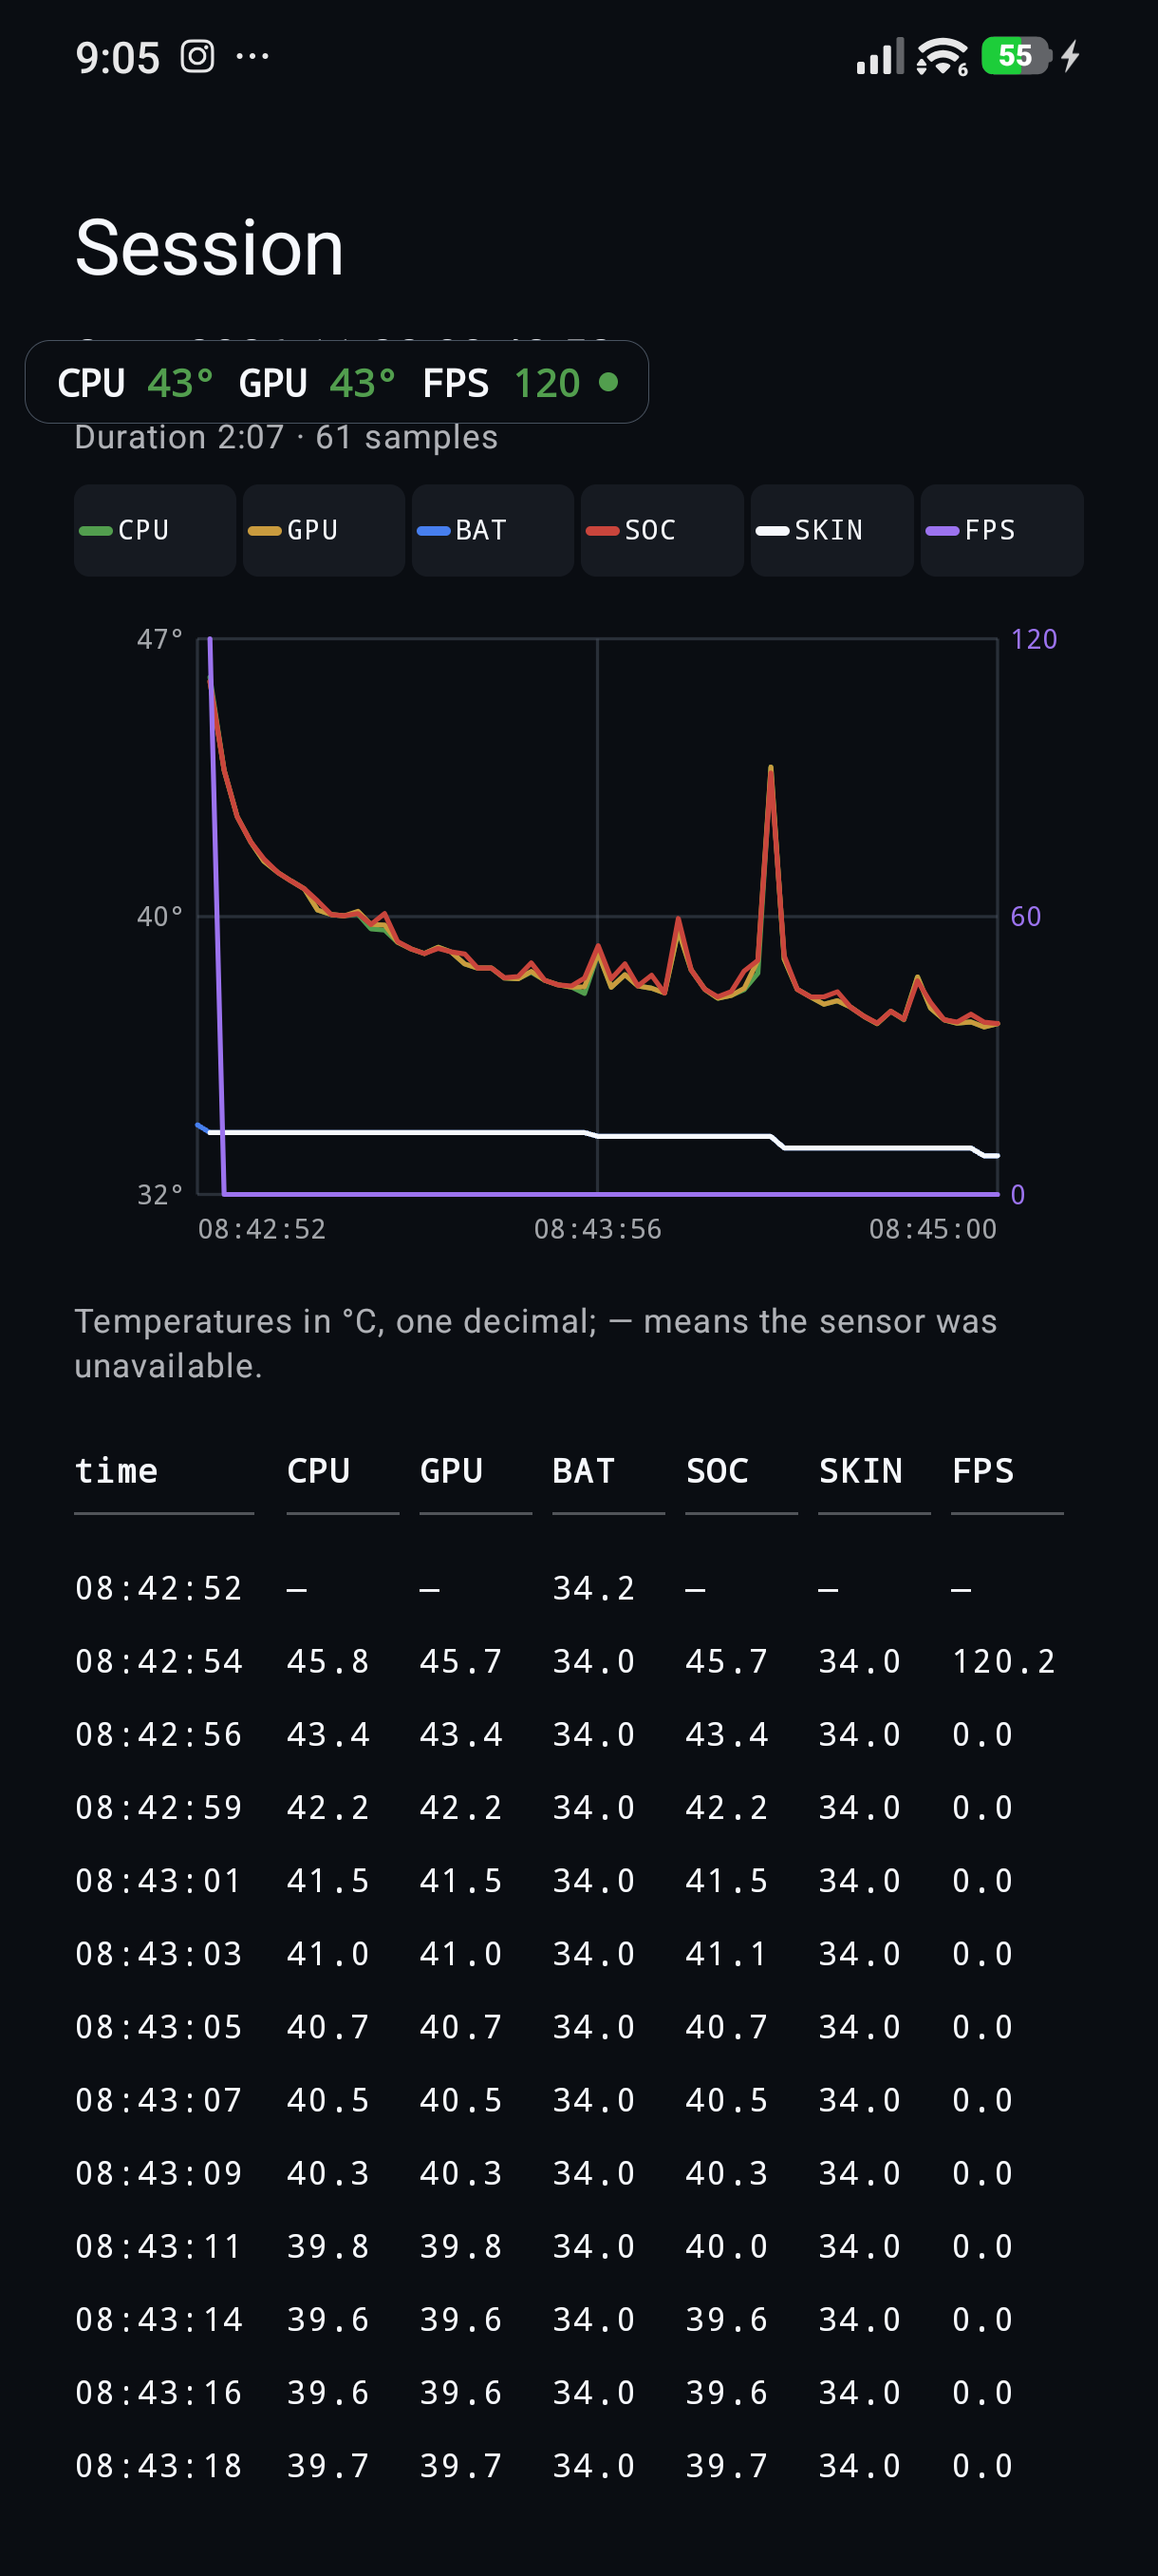
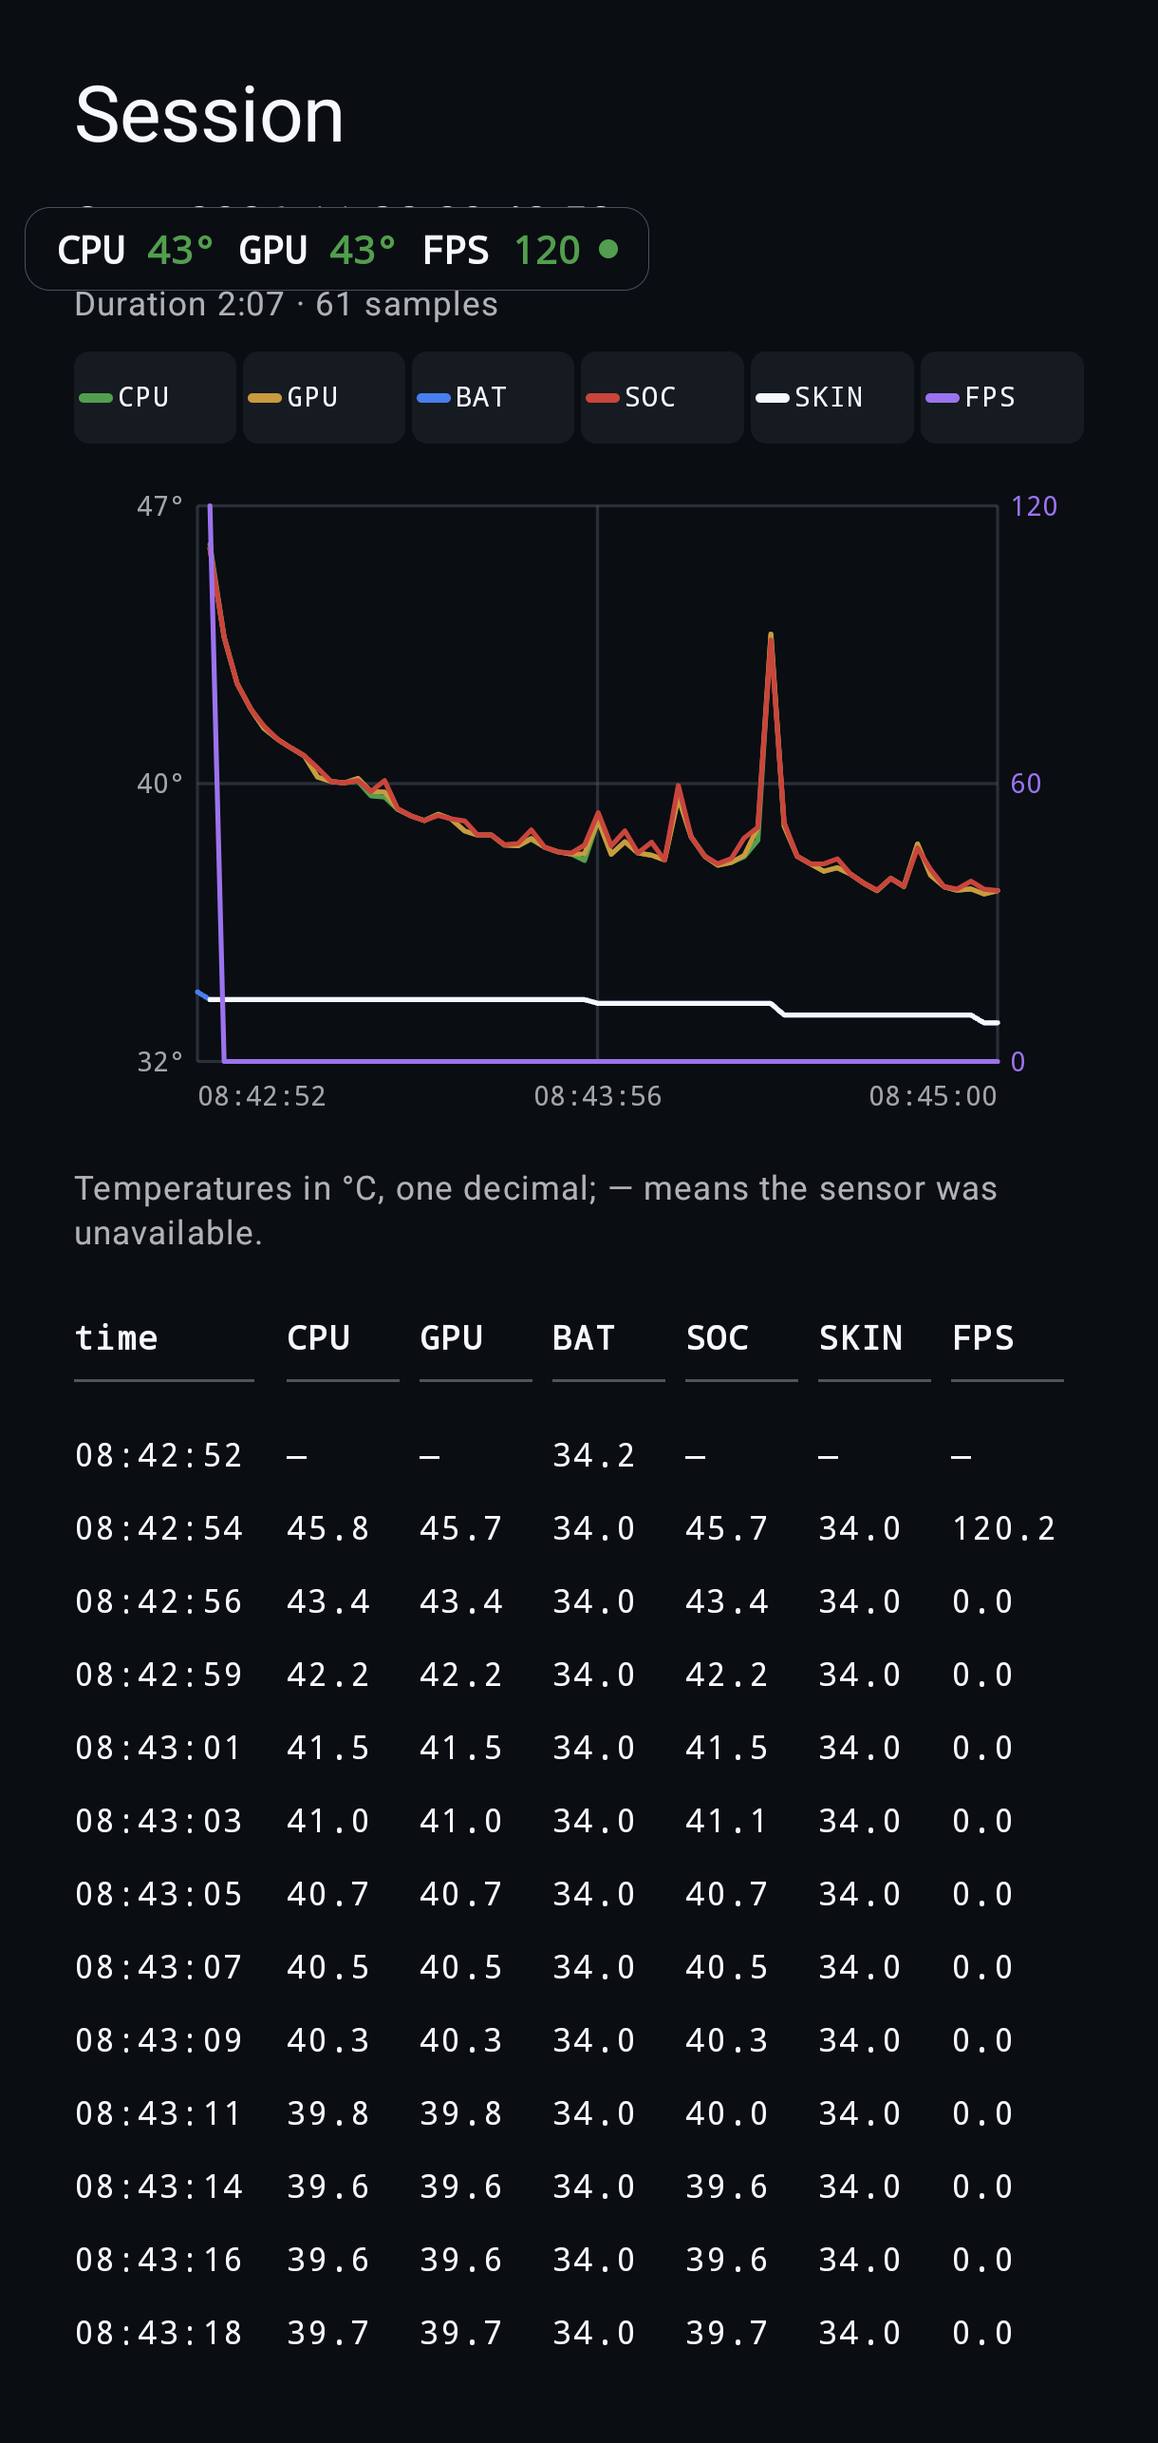
docs: rewrite README and crop screenshots

diff --git a/README.md b/README.md
@@ -1,80 +1,83 @@
 # Rsensors
 
-A floating overlay for Android that shows live CPU/GPU/battery temperatures, the
-foreground app's frame rate, and per-app memory usage — and can stop a selected
-app, where the device and [Shizuku](https://shizuku.rikka.app/) expose those
-capabilities. CPU/GPU, FPS, process memory and stopping use Shizuku. These are
-capabilities, not universal guarantees: Diagnostics reports what is available
-on the current phone and the exact reason when it is not.
+A floating Android monitoring app. It shows CPU/GPU and battery temperatures,
+FPS and RAM in an always-on-top pill, and opens into a card with details,
+session recording and process memory. CPU/GPU temperatures, FPS, process memory
+and app stopping require Shizuku; battery temperature, thermal status and system
+RAM work without it. Diagnostics reports what the current phone exposes and why
+a feature is unavailable.
 
 ![Collapsed pill and expanded card](docs/images/overlay.png)
 
 ## Features
 
-- **Collapsed pill**: `CPU/GPU`, `BAT`, `FPS` and `RAM`, with a source dot.
-  Values follow the green / amber / red bands and dim when the sample is stale.
-  CPU/GPU shows the hotter SoC value and uses the worse of the two levels; RAM
-  is used decimal GB in blue and stays visible when the sensor reading is
-  missing.
-- **Expanded card**: individual CPU, GPU and battery readings, each with the
-  maximum and minimum over the last 2 minutes; thermal status; FPS; system RAM
-  used/total with a compact usage bar; a 2-minute sparkline with a
-  `CPU+GPU / CPU / GPU / BAT / FPS` selector; and CPU/GPU / BAT / FPS / RAM
-  chips that choose what the pill and notification show.
-- **Process memory**: tap the card's RAM row for a paged list of the top memory
-  consumers, eight per page. The page uses PSS from `dumpsys meminfo` through
-  Shizuku and falls back to RSS from `ps` when that dump has no PSS rows; its
-  footer labels the metric actually shown (PSS or RSS), and Diagnostics names
-  the matching source (`dumpsys meminfo` or `ps`). `Apps` groups by package and
-  hides native/system rows on the PSS route; RSS rows have no OOM group, so
-  `Apps` keeps them. `Processes` shows every process. `Refresh` takes a new
-  snapshot; `Back` returns to the card. The normal pill keeps updating while the
-  page is open. Without Shizuku the page explains why it is unavailable and
-  offers the setup action.
-- **Stop app**: tap a row to select it, then Stop and confirm. The selection
-  bar shows the app, package, its memory and a protection reason. Core system,
-  native, persistent, self, Shizuku and the OEM security/power-manager packages
-  in the denylist are protected and never offer Stop; system/foreground/
-  launcher/keyboard/Play services rows warn first. AICore is a warning, not a
-  block. When Android hides an app's details, selecting it reads that one
-  package's flags from the shell (`dumpsys package`) and shows
-  `Resolving app details…` until they arrive; the list and Refresh stay usable,
-  the result is cached, and the app then gets its real system/persistent tier.
-  A shell UID lookup protects hidden core rows by UID too. Hidden Processes rows
-  without a resolvable package stay protected rather than guessing. Only the
-  selected package is read — no `QUERY_ALL_PACKAGES` and no package list. The
-  stop is Android's package force-stop, so the whole app stops; the shell then
-  checks `ps` for survivors, the page rescans once, and a system app that
-  restarts simply reappears. There is no raw kill and no undo; a stop made
-  through **Manage apps** is not verified.
-- **Temperatures where exposed**: CPU/GPU from the platform thermal service
-  through Shizuku, using the hottest matching zone and common OEM aliases;
-  battery temperature and thermal status from Android. Missing sensors render
-  `—`, never another sensor's value, and Diagnostics names the reason.
-- **Foreground FPS where exposed**: presented frames of the focused app from
-  SurfaceFlinger, plotted on a 0–120 axis that expands in 30 fps steps when the
-  session exceeds it. The overlay's own frames are not counted; an idle app
-  reads 0. A changed foreground app is picked up on the next poll instead of
-  waiting out the layer cache. Without Shizuku or a resolvable focused layer the
-  value is `—`, and Diagnostics shows why.
-- **Recording**: one CSV per session (v2 with FPS) started from the main switch
-  or the expanded card's `Record session` toggle; a saved-session list, and a
-  full-session graph with CPU/GPU/BAT/SOC/SKIN/FPS. Legend chips dim and restack
-  a line; table headers explain each column; long-press selects sessions for
-  deletion.
-- **Placement**: drag the pill anywhere. With `Snap to edges` on (default) it
-  keeps an 8 dp margin from the nearer side after release; turned off, it stays
-  at the exact drop position, clamped on-screen. Position and expanded state
-  persist.
-- **Diagnostics**: a per-feature status table (battery, thermal status,
-  CPU/GPU, board, FPS, RAM, process memory, Stop app) with the source and exact
-  reason when something is unavailable, plus current source and age, Shizuku
-  state and version, sysfs read errors, and the thermal-zone table with
-  per-zone overrides where sysfs is readable.
-- **Setup guide**: in-app Shizuku setup and troubleshooting, including the
-  "Start keeps searching" fix and a version check when the server is running
-  but CPU/GPU stay on `BAT`.
-- **Boot**: optional auto-start after the first unlock following a reboot.
+### Pill
+
+- `CPU/GPU`, `BAT`, `FPS` and `RAM`, with a source dot.
+- CPU/GPU is the hotter SoC value and the worse of the two levels; RAM is used
+  memory.
+- Values dim when stale; missing values render `—`.
+
+### Card
+
+- Individual CPU, GPU and battery readings with 2-minute max/min.
+- Thermal status, FPS, and system RAM used/total with a bar.
+- 2-minute sparkline with a `CPU+GPU / CPU / GPU / BAT / FPS` selector.
+- `CPU/GPU / BAT / FPS / RAM` chips choose what the pill and notification show.
+- `Record session`, `Refresh`, `Diagnostics` and `Stop monitoring`.
+
+### Process memory
+
+- Tap the RAM row for a paged list, eight per page.
+- PSS from `dumpsys meminfo`; falls back to RSS from `ps` and labels the metric.
+- `Apps` groups by package and hides Native/System on the PSS route;
+  `Processes` shows every process.
+- `Refresh` and `Back`; the pill keeps updating. Without Shizuku the page
+  explains why it is unavailable.
+
+### Stop app
+
+- Select a row, then Stop and confirm.
+- Protected: Rsensors, Shizuku, native/unknown, core system, OEM security and
+  power managers, persistent apps.
+- Warnings: system apps, foreground apps, launcher, keyboard, Play services and
+  AICore.
+- Hidden app details are resolved for the selected package only; hidden
+  Processes rows stay protected.
+- `am force-stop` stops the whole app; a `ps` check reports survivors; no undo.
+
+### FPS
+
+- The focused app's presented frames from SurfaceFlinger; idle reads 0; the
+  overlay's own frames are excluded.
+- The graph axis starts at 0–120 and expands in 30 fps steps.
+- A changed foreground app is picked up on the next poll.
+
+### Recording
+
+- CSV v2 with FPS, one file per session.
+- Sessions list and full-session graph; legend chips and column help; long-press
+  delete.
+- Screen-off pauses polling, leaving a gap.
+
+### Diagnostics
+
+- Eight rows: battery, thermal status, CPU/GPU, board, FPS, RAM, process memory
+  and Stop app.
+- Each row shows state, source and reason; the screen also shows source and
+  age, Shizuku state and version, sysfs errors, and the thermal-zone table.
+
+### Setup guide
+
+- In-app Shizuku setup, the "Start keeps searching" fix, pairing reset, after
+  reboot, BAT-only, and version checks.
+- Links the 13.5.4 release and gives the install steps.
+
+### Placement and boot
+
+- Drag the pill. `Snap to edges` keeps an 8 dp margin from the nearer side, or
+  the exact drop position when off.
+- Optional start after the first unlock following a reboot.
 
 ## Screenshots
 
@@ -96,62 +99,26 @@ on the current phone and the exact reason when it is not.
 | Verified on (only) | POCO X7 Pro, Android 16 / HyperOS |
 | Verified Shizuku | 13.5.4 |
 
-Battery temperature, thermal status and the system RAM card work without
-Shizuku. Shizuku 13.6.0 supports Android 16 QPR1 in general, but on the verified
-HyperOS / MediaTek device it fails to start its UserService (upstream issues
+Battery temperature, thermal status and system RAM work without Shizuku.
+
+Shizuku 13.6.0 supports Android 16 QPR1 in general, but on the verified
+HyperOS/MediaTek device its UserService fails to start (upstream issues
 [#2629](https://github.com/RikkaApps/Shizuku/issues/2629) and
 [#2633](https://github.com/RikkaApps/Shizuku/issues/2633)); 13.5.4 is the
 working version there. Android refuses an in-place downgrade, so uninstall
-Shizuku first — that clears its pairing and permission data, and Rsensors has to
+Shizuku first. That clears its pairing and permission data, and Rsensors has to
 be granted the permission again. The setup guide links the
 [13.5.4 release](https://github.com/RikkaApps/Shizuku/releases/tag/v13.5.4) and
-gives the download/install steps. Other devices and versions may differ: if
-13.6.0 works on your phone, keep it.
-
-## Compatibility notes
-
-These are setup hints for common OEM software, not verified support. Only the
-POCO X7 Pro build above has been run on a phone; the app names the settings to
-check and Diagnostics reports what your device actually exposes. The research
-and limits are in [docs/UNIVERSALITY.md](docs/UNIVERSALITY.md).
-
-| Device family | Autostart / background | Shizuku note |
-|---|---|---|
-| AOSP / Pixel | No OEM autostart manager; battery optimization can still stop the overlay. | Start the Shizuku server again after a reboot. |
-| Samsung | Remove Rsensors from Sleeping apps and Deep sleeping apps; Auto Blocker may block sideloading. | Keep Shizuku out of Sleeping apps, or the server can stop while the screen is off. |
-| Xiaomi / HyperOS | Allow Autostart and Background autostart, set battery to No restrictions, and lock the app in Recents. | Allow Shizuku to autostart; toggle Wireless debugging if Start keeps searching. |
-| Huawei / HONOR | App launch → Manage manually, with Auto-launch, Secondary launch and Run in background. | Many builds lack Wireless debugging; use USB debugging. |
-| ColorOS / Oppo / Realme | Allow Auto launch and background activity, and turn off system optimization for Rsensors. | Permission monitoring can revoke Shizuku's grant after a reboot. |
-| vivo / iQOO | Allow Autostart and high background power use. | Start Shizuku again after a restart and check that it is allowed to autostart. |
-
-HarmonyOS NEXT does not run Android APKs, so no Android build of Rsensors can
-be installed there.
-
-## What "works" means
-
-"Verified" in this README means the named build was run on the device above. It
-is not a claim that every Android 8+ phone exposes every measurement.
-
-- **No shell needed:** battery temperature, thermal status (Android 10+), system
-  RAM, own-app data, overlay, recording, sessions and settings. OEM policy can
-  still block the overlay or autostart.
-- **Shizuku tier:** CPU/GPU temperatures, FPS, process memory and stopping apps.
-  The platform or OEM may omit a sensor, use a different SurfaceFlinger layer or
-  `dumpsys` format, or refuse a command.
-- **Diagnostics is the source of truth:** each feature has a state (`OK`,
-  `DEGRADED`, `UNAVAILABLE`, `BLOCKED`, `UNKNOWN`), a source and the exact
-  reason — for example Shizuku not running, permission missing, no focused
-  layer, no matching thermal zone, no process rows, or a protected package. A
-  missing value is a reported capability result, not a silent success.
+gives the download and install steps. If 13.6.0 works on your phone, keep it.
 
 ## Install
 
 1. Download the APK from [Releases](https://github.com/reswanaadiwarga/rsensors/releases/latest)
    and install it with `adb install` or a file manager.
 2. Open Rsensors and grant **Display over other apps** and **Notifications**.
-3. Install and start [Shizuku](https://shizuku.rikka.app/). Allow Shizuku to send
-   notifications: the pairing code is entered in its notification. Then grant
-   Rsensors the Shizuku permission.
+3. Install and start [Shizuku](https://shizuku.rikka.app/). Allow Shizuku to
+   send notifications: the pairing code is entered in its notification. Then
+   grant Rsensors the Shizuku permission.
 4. Tap **Start monitoring**. The pill appears; the expanded card is one tap.
 5. For the detailed Shizuku flow, open **Shizuku setup guide** in the app.
 
@@ -175,8 +142,42 @@ No `INTERNET` permission. No accessibility service, screen capture or root.
 - Session CSVs live in the app's private `filesDir/sessions` directory and can
   be deleted from the Sessions screen.
 - No analytics, ads or network calls.
-- Shizuku runs a shell-side service; Rsensors calls only the thermal and
-  SurfaceFlinger dumps it needs through that service.
+- Shizuku runs a shell-side service; Rsensors calls only the thermal,
+  SurfaceFlinger and memory dumps it needs through that service.
+
+## Device support
+
+"Verified" means the named build was run on the POCO X7 Pro. It is not a claim
+that every Android 8+ phone exposes every measurement.
+
+- **No shell:** battery temperature, thermal status (Android 10+), system RAM,
+  own-app data, overlay, recording, sessions and settings. OEM policy can still
+  block the overlay or autostart.
+- **Shizuku:** CPU/GPU temperatures, FPS, process memory and stopping apps. The
+  platform or OEM may omit a sensor, use a different SurfaceFlinger layer or
+  `dumpsys` format, or refuse a command.
+- **Diagnostics is the source of truth:** each feature has a state (`OK`,
+  `DEGRADED`, `UNAVAILABLE`, `BLOCKED`, `UNKNOWN`), a source and the exact
+  reason — for example Shizuku not running, permission missing, no focused
+  layer, no matching thermal zone, no process rows, or a protected package.
+
+## Compatibility notes
+
+These are setup hints for common OEM software, not verified support. Only the
+POCO X7 Pro build above has been run on a phone. The research and limits are in
+[docs/UNIVERSALITY.md](docs/UNIVERSALITY.md).
+
+| Device family | Autostart / background | Shizuku note |
+|---|---|---|
+| AOSP / Pixel | No OEM autostart manager; battery optimization can still stop the overlay. | Start the Shizuku server again after a reboot. |
+| Samsung | Remove Rsensors from Sleeping apps and Deep sleeping apps; Auto Blocker may block sideloading. | Keep Shizuku out of Sleeping apps, or the server can stop while the screen is off. |
+| Xiaomi / HyperOS | Allow Autostart and Background autostart, set battery to No restrictions, and lock the app in Recents. | Allow Shizuku to autostart; toggle Wireless debugging if Start keeps searching. |
+| Huawei / HONOR | App launch → Manage manually, with Auto-launch, Secondary launch and Run in background. | Many builds lack Wireless debugging; use USB debugging. |
+| ColorOS / Oppo / Realme | Allow Auto launch and background activity, and turn off system optimization for Rsensors. | Permission monitoring can revoke Shizuku's grant after a reboot. |
+| vivo / iQOO | Allow Autostart and high background power use. | Start Shizuku again after a restart and check that it is allowed to autostart. |
+
+HarmonyOS NEXT does not run Android APKs, so no Android build of Rsensors can
+be installed there.
 
 ## Build and test
 
@@ -200,8 +201,8 @@ The internal design and task log is [ANDROID.md](ANDROID.md); source comments
 cite its sections.
 
 See [docs/BUILDING.md](docs/BUILDING.md) for signing, R8 and the release
-details, and [docs/VERIFICATION.md](docs/VERIFICATION.md) for what is actually
-verified on this phone versus what remains untested.
+details, and [docs/VERIFICATION.md](docs/VERIFICATION.md) for what is verified
+on this phone versus what remains untested.
 
 ## Release
 
@@ -246,8 +247,8 @@ smoke. This is not a compatibility statement for other phones.
 - After a reboot Shizuku must be started again; the overlay starts after the
   first unlock when the boot switch is on.
 - On the tested POCO X7 Pro the app UID cannot list `/sys/class/thermal`, and
-  per-core temperatures are absent. Diagnostics reports the denial; the
-  manual zone overrides are inert on that device.
+  per-core temperatures are absent. Diagnostics reports the denial; the manual
+  zone overrides are inert on that device.
 - Sessions recorded with 0.1.0 (CSV v1) open without an FPS series or column.
 - The release APK is debug-signed; see above.
 
